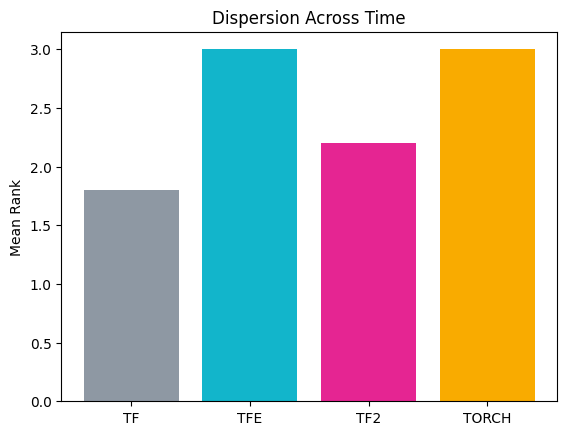
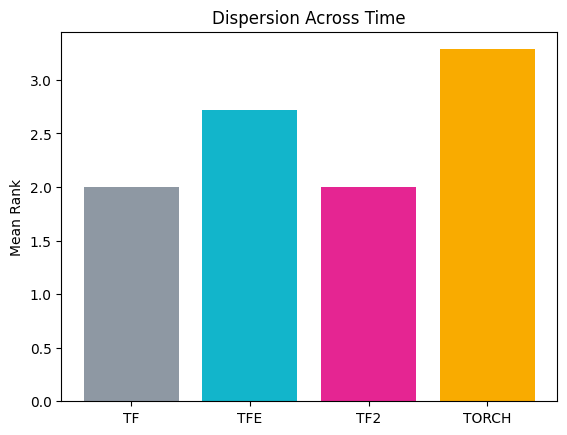
minor

diff --git a/metrics.py b/metrics.py
@@ -63,7 +63,7 @@ if __name__ == '__main__':
     tf2_cvar_diff_rankings = []
     torch_cvar_diff_rankings = []
 
-    for exp in ['a2c', 'apex', 'dqn', 'impala', 'ppo', 'appo', 'ars', 'pg']:
+    for exp in ['a2c', 'apex', 'dqn', 'impala', 'ppo', 'appo', 'pg']:
         exp_iqr_val = []
         exp_cvar_diff_val = []
         exp_path = 'cartpole/' + exp
